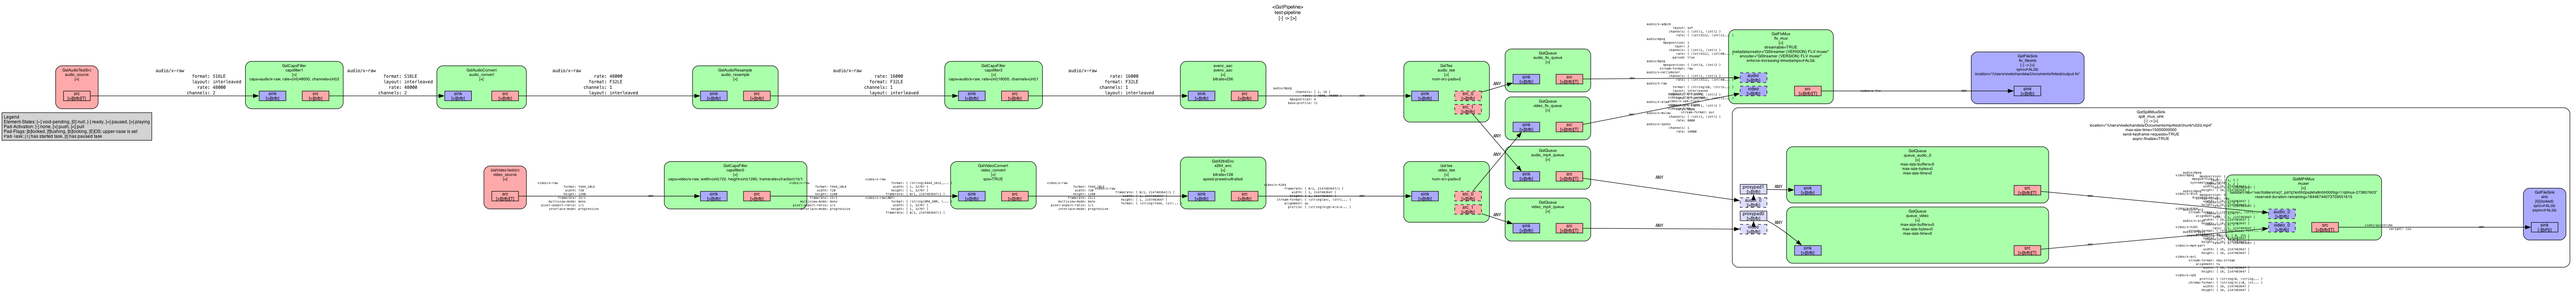
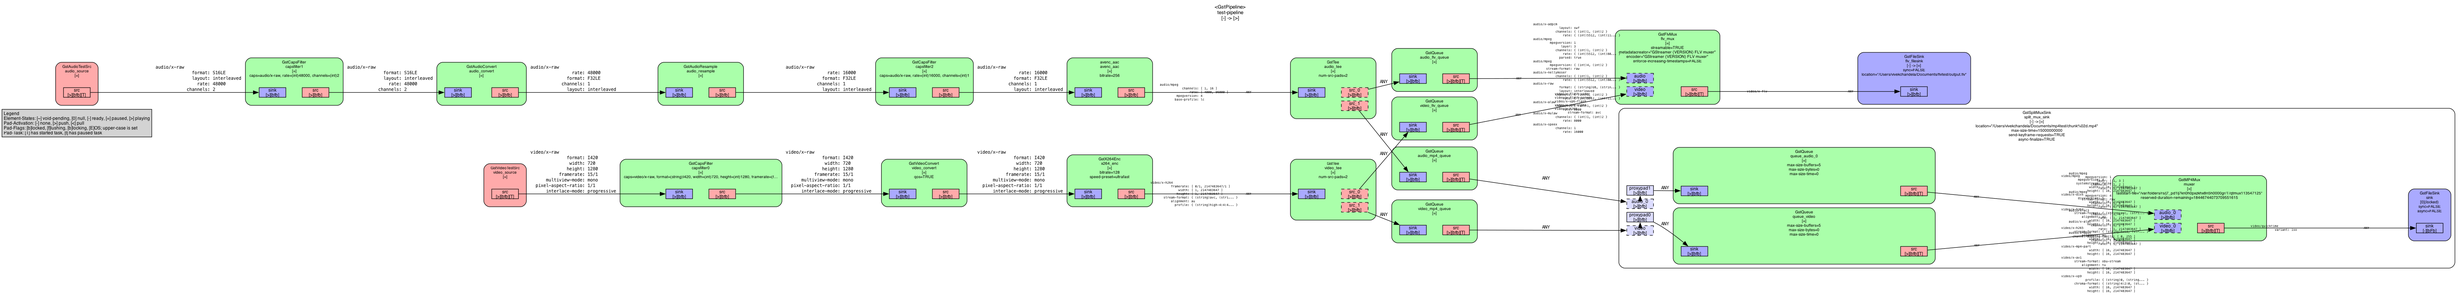
set video format to I420 for YUV 4:2:0 profile. Earlier we had YUV 4:4:4 profile

Changed region(s): [[0.0, 0.0907, 0.9989, 0.9975], [0.9677, 0.6348, 0.9989, 0.7254], [0.9677, 0.7557, 0.9989, 0.8161]]

diff --git a/doubletee/doubletee-doublequeue.c b/doubletee/doubletee-doublequeue.c
@@ -7,6 +7,7 @@ static gboolean link_elements_with_video_filter (GstElement *element1, GstElemen
     GstCaps *caps;
 
     caps = gst_caps_new_simple ("video/x-raw",
+            "format", G_TYPE_STRING, "I420",
             "width", G_TYPE_INT, 720,
             "height", G_TYPE_INT, 1280,
             "framerate", GST_TYPE_FRACTION, 15, 1,

diff --git a/doubletee/doubletee-singlequeue.c b/doubletee/doubletee-singlequeue.c
@@ -7,6 +7,7 @@ static gboolean link_elements_with_video_filter (GstElement *element1, GstElemen
     GstCaps *caps;
 
     caps = gst_caps_new_simple ("video/x-raw",
+            "format", G_TYPE_STRING, "I420",
             "width", G_TYPE_INT, 720,
             "height", G_TYPE_INT, 1280,
             "framerate", GST_TYPE_FRACTION, 15, 1,

diff --git a/doubletee/doubletee.c b/doubletee/doubletee.c
@@ -7,6 +7,7 @@ static gboolean link_elements_with_video_filter (GstElement *element1, GstElemen
     GstCaps *caps;
 
     caps = gst_caps_new_simple ("video/x-raw",
+            "format", G_TYPE_STRING, "I420",
             "width", G_TYPE_INT, 720,
             "height", G_TYPE_INT, 1280,
             "framerate", GST_TYPE_FRACTION, 15, 1,
